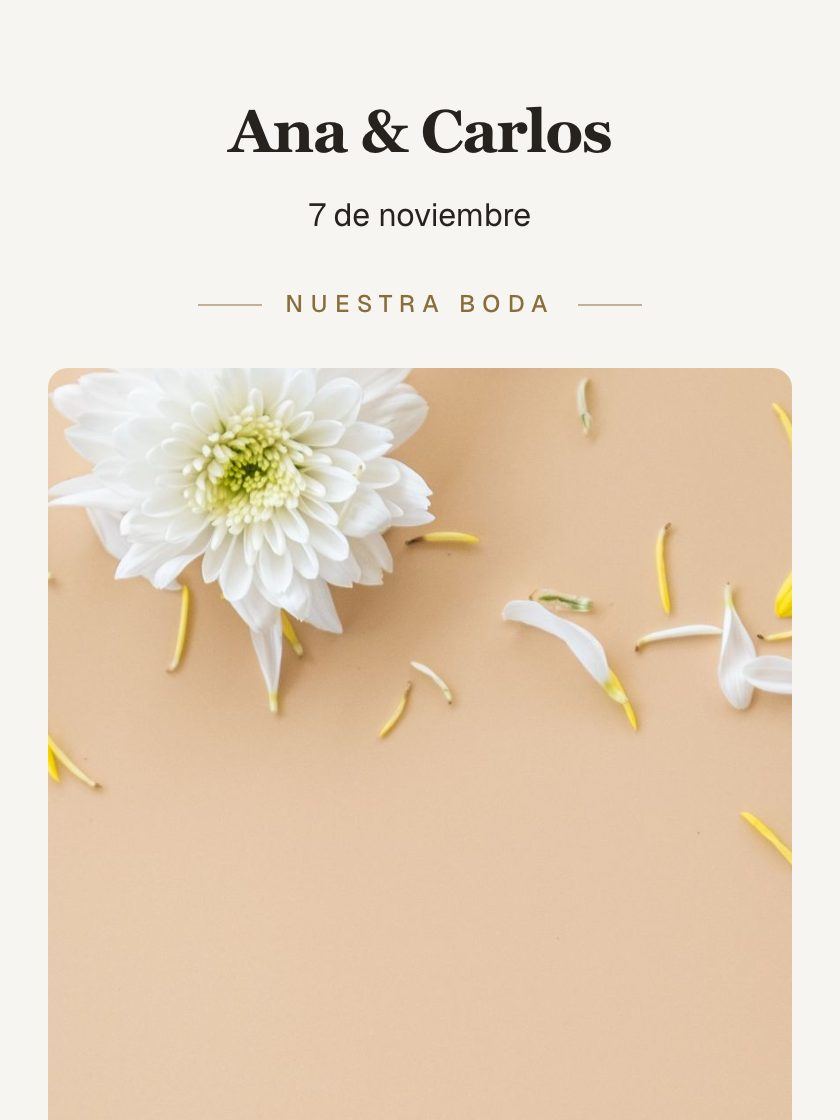
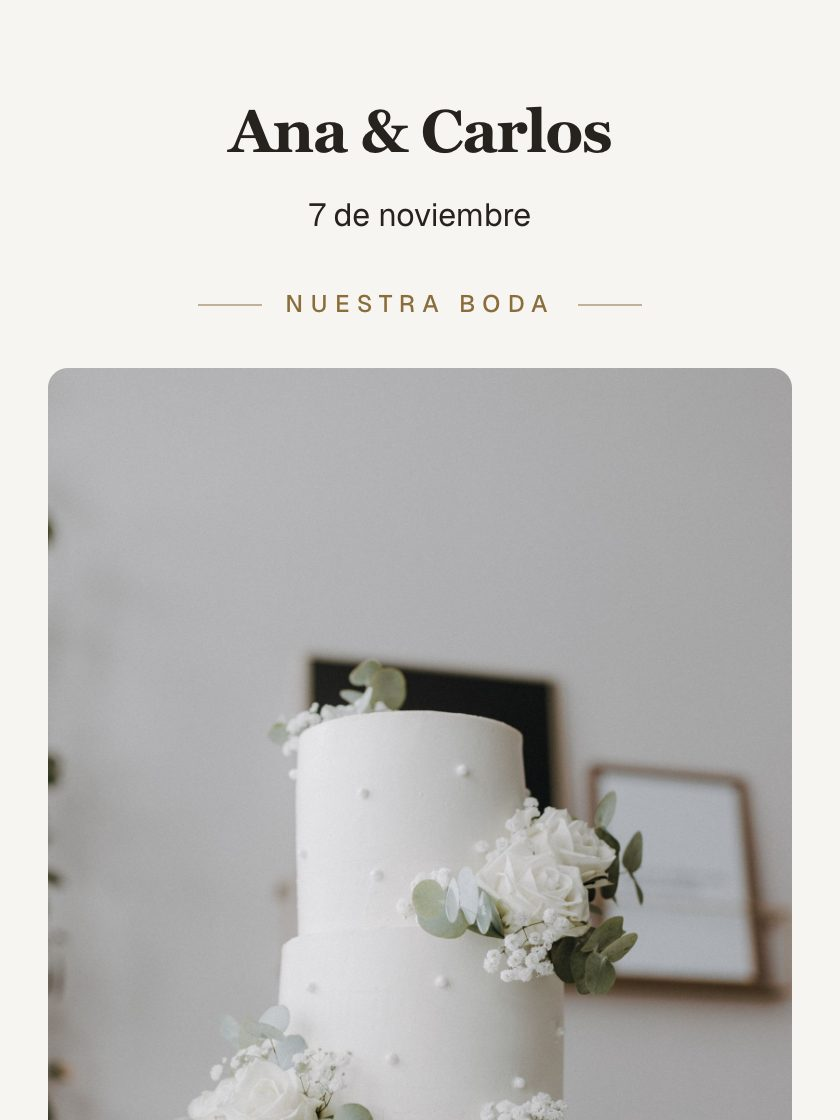
chore(miniaturas): las dos de la 0037, ya aplicada — el piloto cierra en 15 de 15
El dev aplico la 0037. Verificado por efecto contra la BD ANTES de capturar: las
2 filas, los 8 campos (variant/imageUrl/imageRatio/overlay), 0 desajustes, y
`comunion-cinta` ya en `editorial`. Las guardas de forma tocaron las dos, no
cero.

Capturadas contra un `next start` PROPIO en el 3210 — comprobado como toca esta
vez, y no como la tanda anterior: log sin EADDRINUSE, `lsof` del puerto y
`ps -o lstart=` confirmando que el PID que escucha arranco hace 4 segundos y es
mio.

REPUNTUACION (escala 1-10, umbral >= 8):

  plantilla            VQ  U  ER  C  PF  MP   antes -> ahora
  boda-marco-nuestro    9  7   9  7   9   8    7.3 -> 8.2  ✅
  comunion-cinta        9  8   9  7   9   9    5.8 -> 8.5  ✅

El salto esta donde la fase predijo que estaria: Event Relevance 7->9 y 4->9. Un
objeto del evento mueve esa columna y las de calidad/premium con ella; la
composicion NO sube, y en comunion baja de facto porque `editorial` deja media
pagina vacia a la derecha a 1200 px.

**El piloto pasa de 13/15 a 15/15.**

Puntuado sobre las tres superficies que la rubrica pide, no solo la miniatura: a
1200 px el `split` del pastel llena las dos mitades y a 375 px entra el pastel
completo. El cáliz se lee entero en las dos.

--- HALLAZGO nuevo, y es del mecanismo de siempre en un TERCER sitio ---

La miniatura de boda ensena un trozo de pisos blancos y NO se lee como pastel.
Medido: la figura del hero es 372x558 y arranca en y=184, asi que del viewport
[…]

diff --git a/src/lib/invitations/template-preview.ts b/src/lib/invitations/template-preview.ts
@@ -67,4 +67,4 @@ export const ESCALA_CAPTURA = 2;
  * optimizador y la del navegador, y evita tener que renombrar 50 archivos o
  * volver a escribir 50 URLs en la BD en cada regeneración.
  */
-export const REVISION_MINIATURAS = "202609090216";
+export const REVISION_MINIATURAS = "202609090228";
